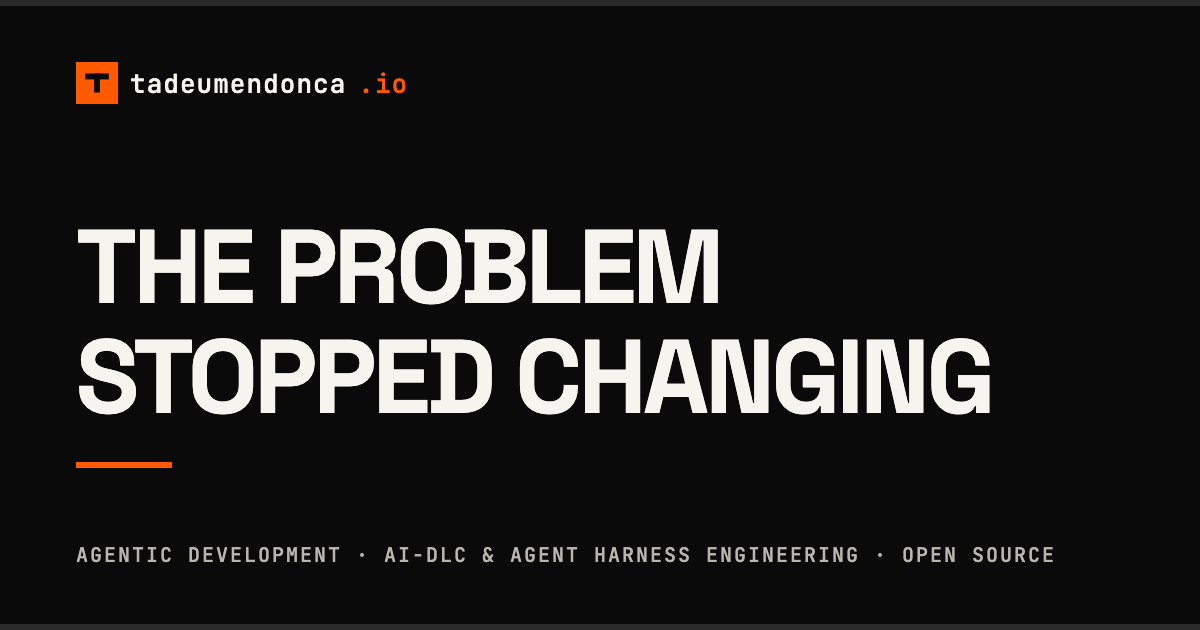
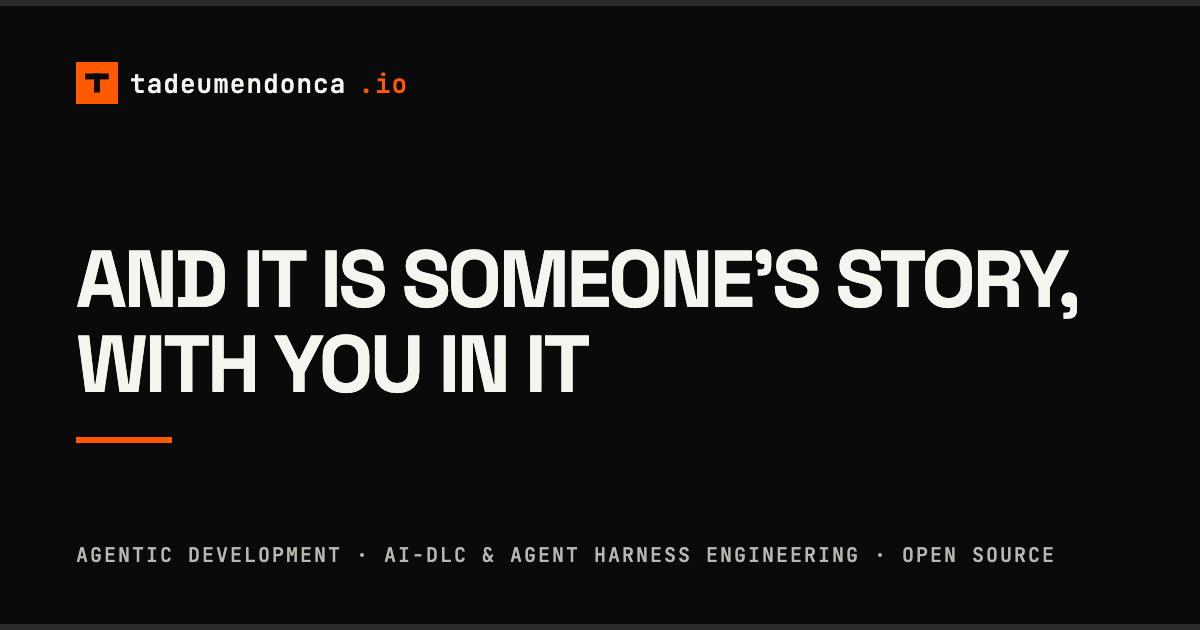
content(blog): retitle the badge article in both editions
The owner rejected the previous title outright and wrote the Portuguese
replacement himself, verbatim: "Que é história de alguém, com você dentro".
It is not edited here.

The English edition is drafted rather than translated, the way every locale
on this site is written. The Portuguese line runs on a mechanic more than on
its words — "Que é..." is a clause hanging off nothing, so it starts
mid-thought the way a sentence continues out loud. A literal rendering keeps
the words and loses that: a standalone leading "Which is" reads as an editing
error in English, because a card or an index tile gives it no antecedent to
point back at. "And it is someone's story, with you in it" keeps the
mid-thought entry and swaps the connector for the one English move that is
never mistaken for a mistake. The contraction was rejected on the piece's own
terms — the English edition uses none anywhere in its prose.

Title only. The slug, the filenames and both published URLs are untouched,
so nothing already shared is orphaned. A repo-wide sweep for both old title
strings found them in exactly two places, the two frontmatter lines changed
here; everything else addresses the article by slug or key.

The committed OG cards bake the title into the PNG, so both are regenerated
— a card is the first thing a reader sees when a link is shared, and it
survives a green build unnoticed. Already-scraped cards keep the old title
permanently; that is a property of the artifact, not something this fixes.
[…]

Changed region(s): [[0.0617, 0.3619, 0.8942, 0.6635], [0.0617, 0.6937, 0.1542, 0.754]]

diff --git a/apps/fed/src/content/blog/the-problem-stopped-changing.en.md b/apps/fed/src/content/blog/the-problem-stopped-changing.en.md
@@ -1,5 +1,5 @@
 ---
-title: "The Problem Stopped Changing"
+title: "And it is someone's story, with you in it"
 slug: the-problem-stopped-changing
 date: '2026-08-21T12:00:00.000Z'
 tag: career

diff --git a/apps/fed/src/content/blog/the-problem-stopped-changing.pt.md b/apps/fed/src/content/blog/the-problem-stopped-changing.pt.md
@@ -1,5 +1,5 @@
 ---
-title: "O Problema Parou de Variar"
+title: "Que é história de alguém, com você dentro"
 slug: o-problema-parou-de-variar
 date: '2026-08-21T12:00:00.000Z'
 tag: career
